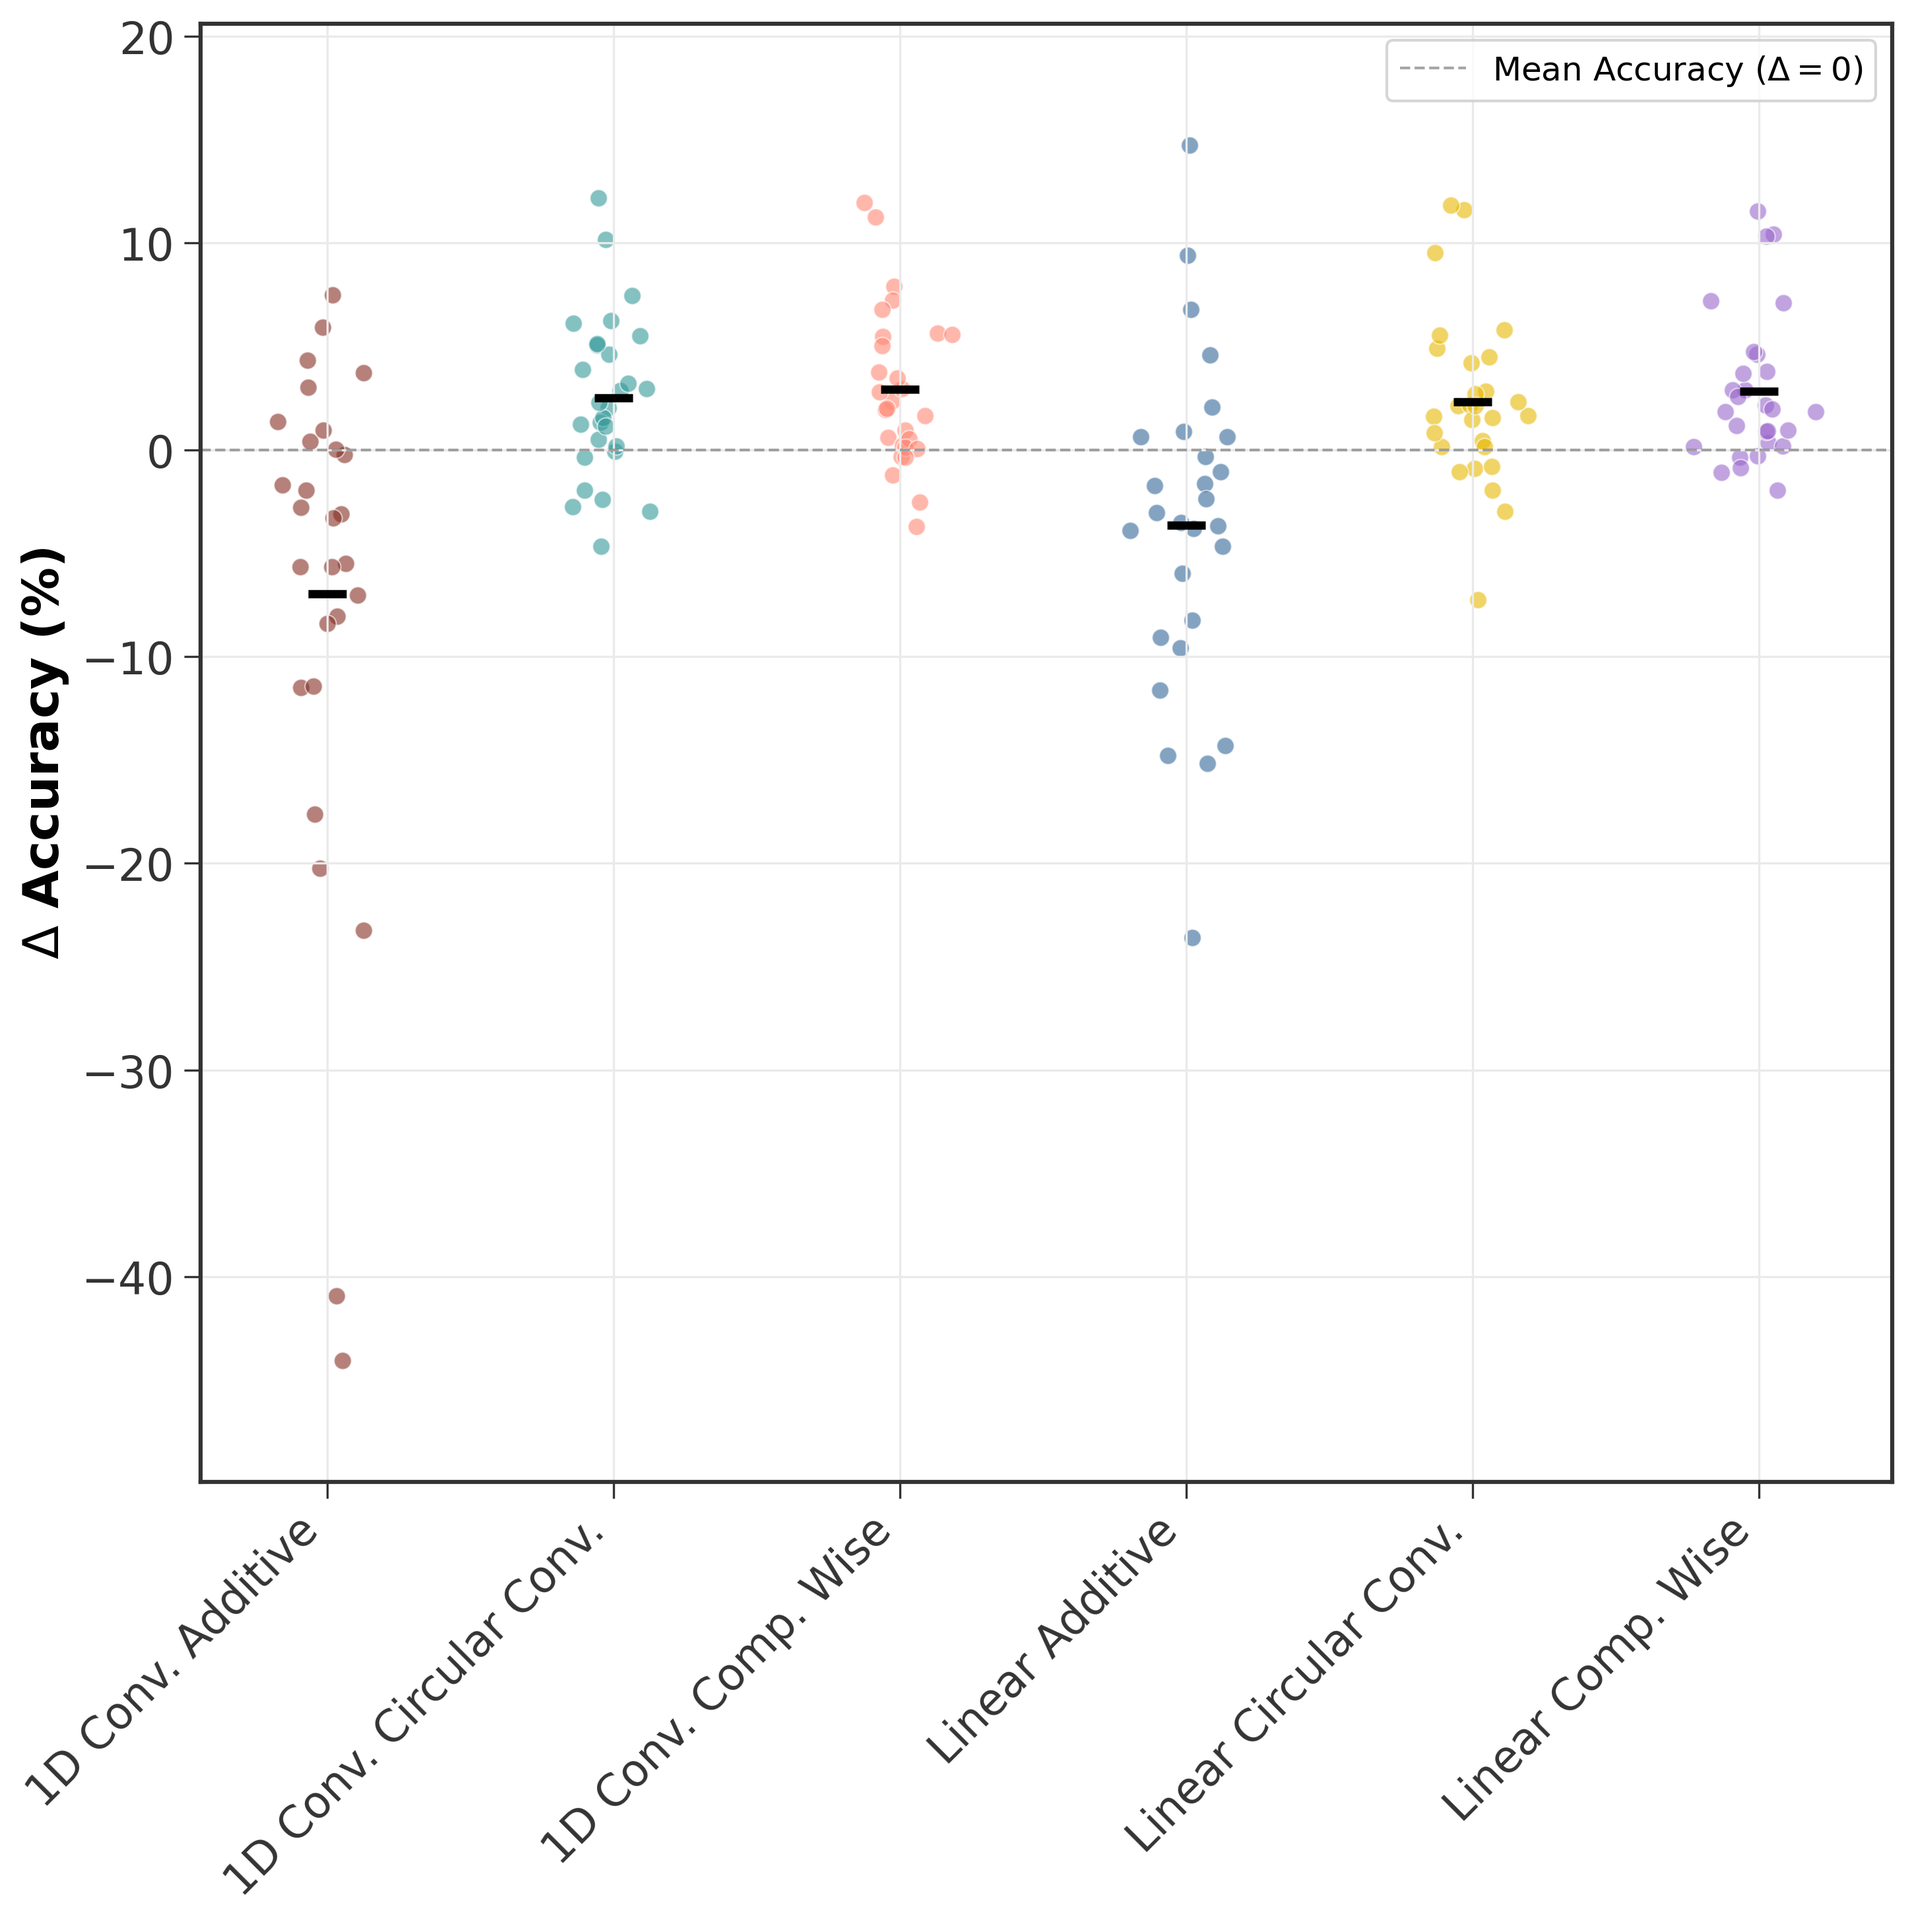
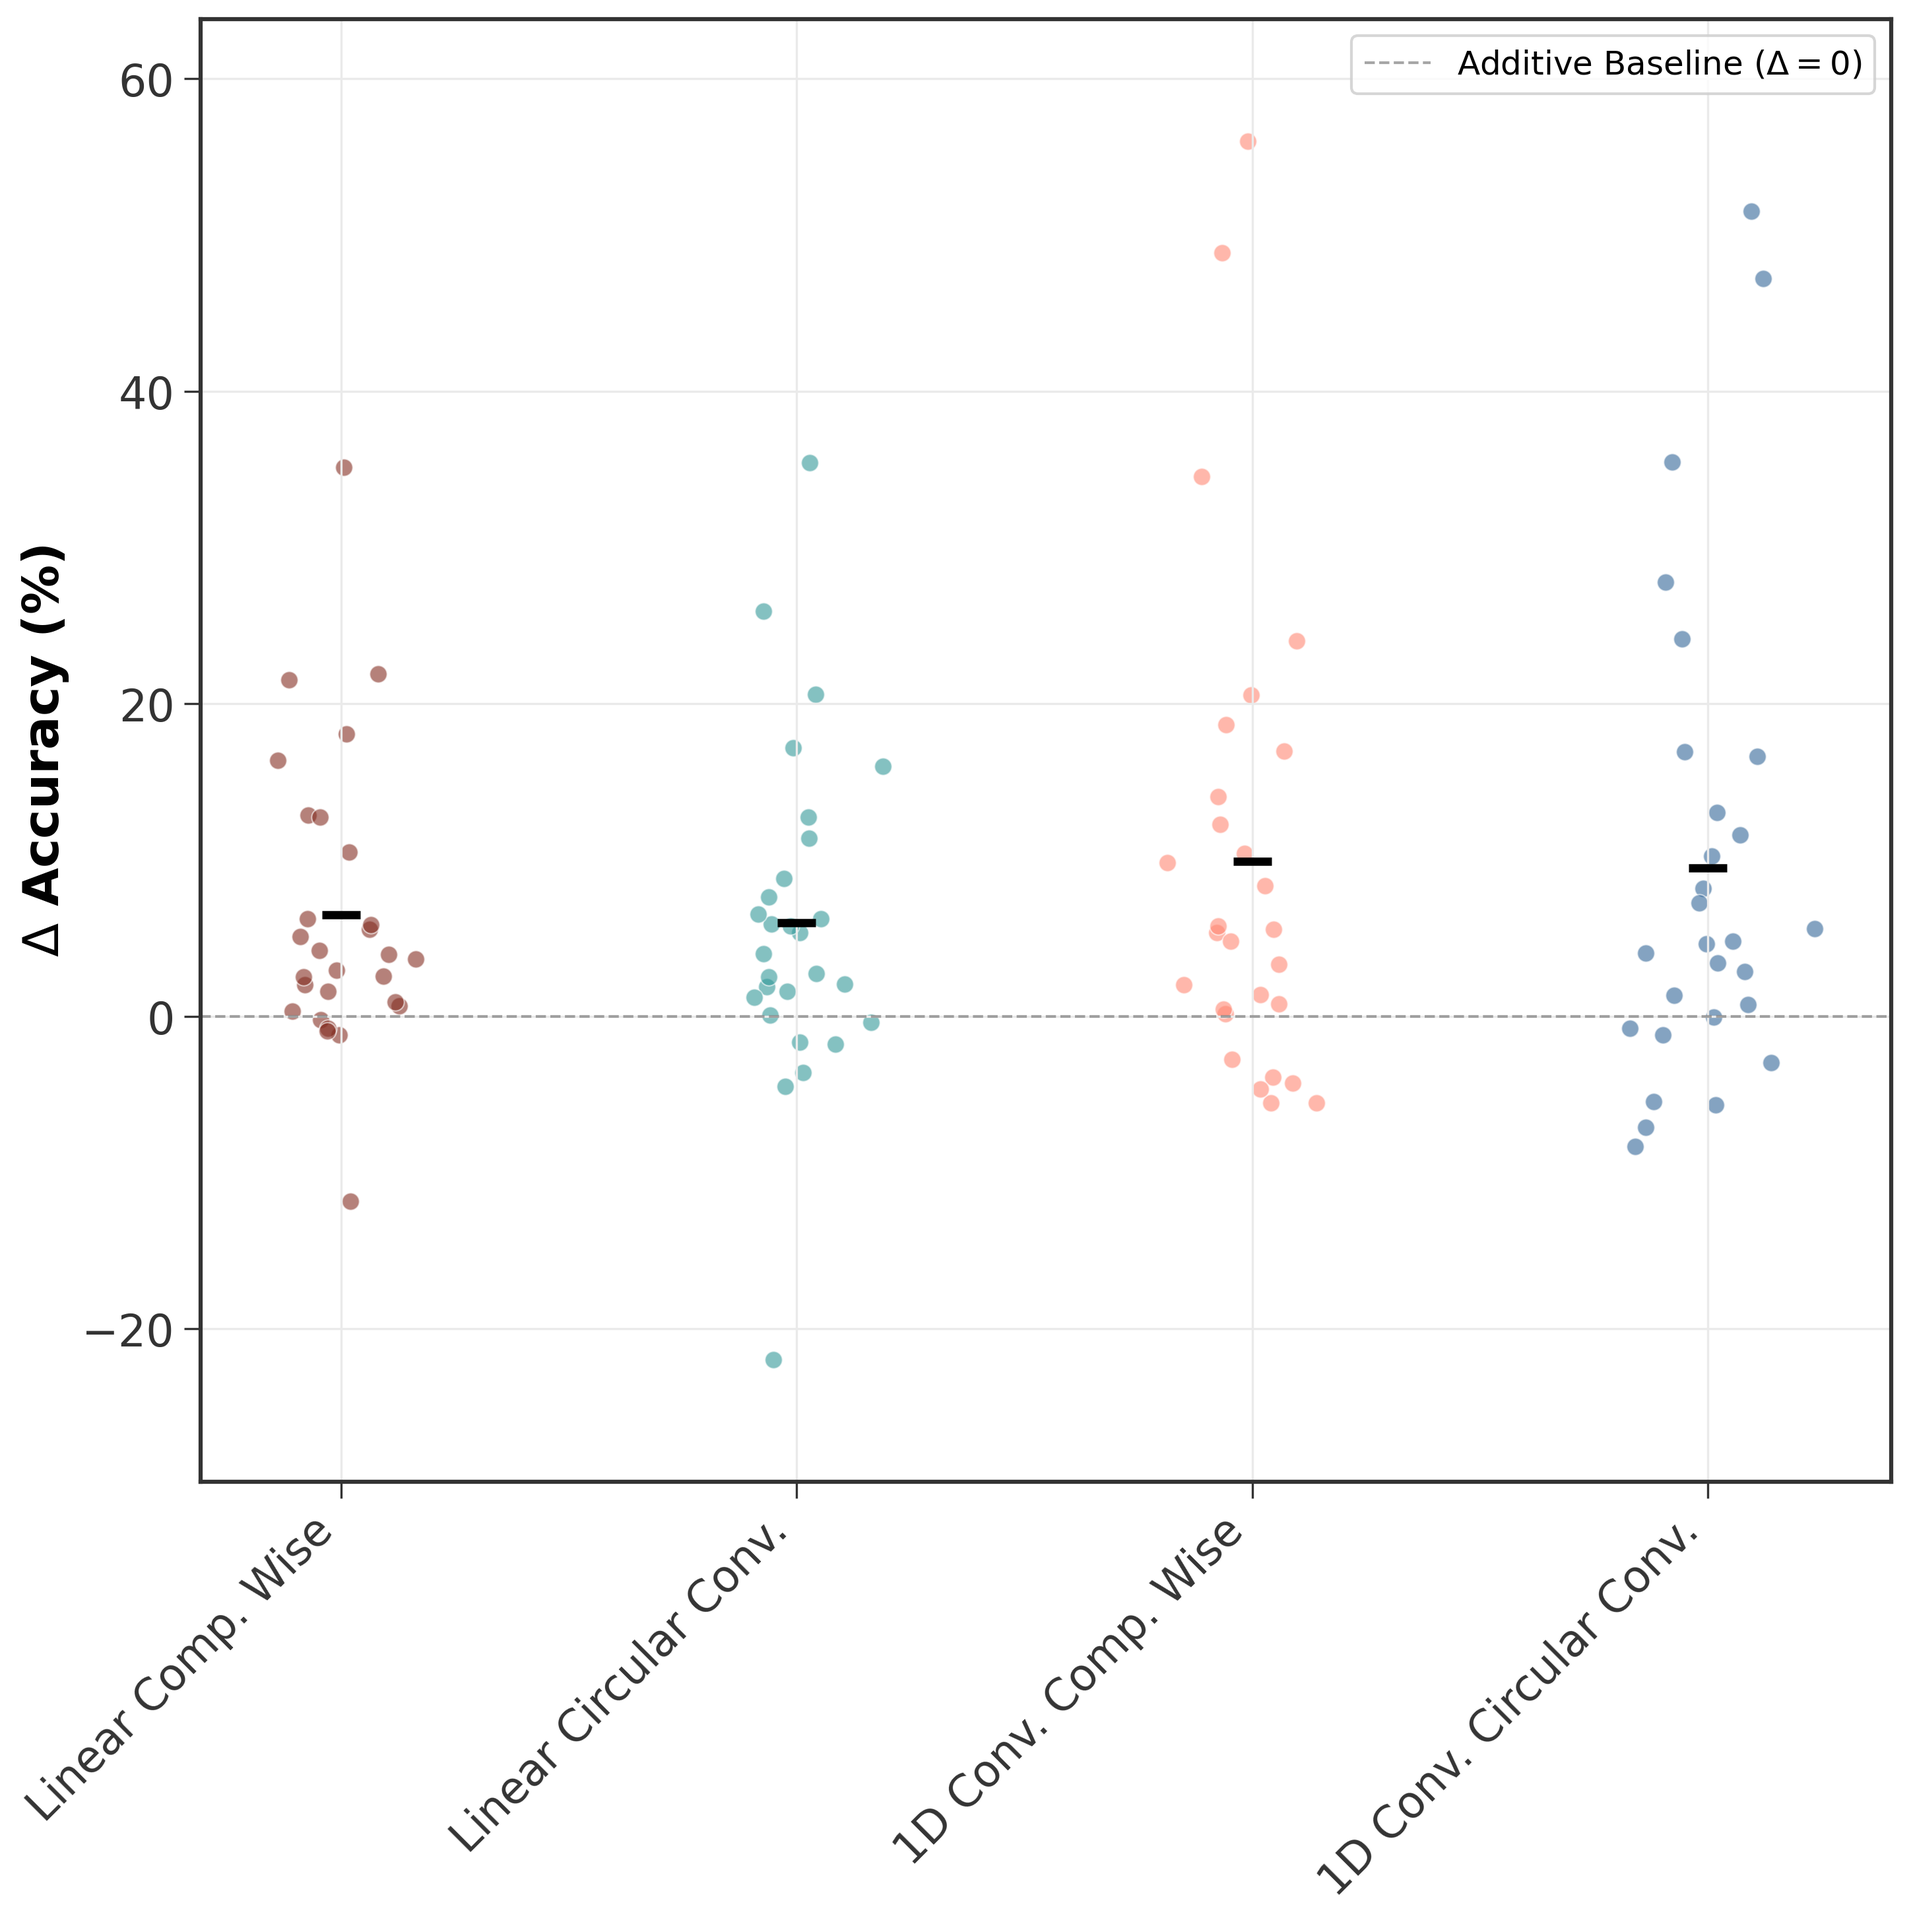
calculate relative acc based in their counterparts

diff --git a/src/experiments/visualization/paper.py b/src/experiments/visualization/paper.py
@@ -235,10 +235,14 @@ def plot_bar_dataset_acc(
 
 
 def plot_relative_accuracy_scatter(metrics: pandas.DataFrame, output_path: pathlib.Path) -> None:
-    """Plot a scatter plot of accuracy relative to the dataset mean.
+    """Plot a scatter plot of accuracy relative to specific Additive Baselines.
 
-    Each point represents a dataset. The Y-value is (Model Accuracy - Dataset Mean Accuracy).
-    Points are grouped by model on the X-axis.
+    Each point represents a dataset.
+    The Y-value is (Model Accuracy - Baseline Accuracy).
+
+    Baselines:
+    - Linear Additive for [Linear Comp. Wise, Linear Circular Conv.]
+    - 1D Conv. Additive for [1D Conv. Comp. Wise, 1D Conv. Circular Conv.]
 
     Args:
         metrics (pandas.DataFrame): DataFrame containing experiment metrics.
@@ -247,7 +251,7 @@ def plot_relative_accuracy_scatter(metrics: pandas.DataFrame, output_path: pathl
     # Apply style
     matplotlib.rcParams.update(rc_config)
 
-    # Create a copy to avoid modifying the original dataframe outside this function
+    # Create a copy to avoid modifying the original dataframe
     metrics_ = metrics.copy()
 
     # Convert strings to floats
@@ -256,18 +260,51 @@ def plot_relative_accuracy_scatter(metrics: pandas.DataFrame, output_path: pathl
     # Convert to percentage
     metrics_ = metrics_ * 100
 
-    # Calculate Relative Accuracy
-    # Calculate the mean accuracy for each dataset (row-wise)
-    dataset_means = metrics_.mean(axis=1)
+    # TODO: improve hardcoding of model names
+    # Initialize a dataframe for relative accuracies
+    relative_acc = pandas.DataFrame(index=metrics_.index)
 
-    # Subtract the dataset mean from the model accuracy
-    # Positive value = Model performed better than average on this dataset
-    # Negative value = Model performed worse than average
-    relative_acc = metrics_.sub(dataset_means, axis=0)
+    # Linear Group Calculation
+    # Baseline: Linear Additive
+    if "Linear Additive" in metrics_.columns:
+        baseline = metrics_["Linear Additive"]
+
+        # Calculate diffs (Target - Baseline)
+        # We include the baseline itself (result will be 0) to show it as the reference point on the plot
+        cols_linear = ["Linear Additive", "Linear Comp. Wise", "Linear Circular Conv."]
+        for col in cols_linear:
+            if col in metrics_.columns:
+                relative_acc[col] = metrics_[col] - baseline
+
+        relative_acc.drop(columns=["Linear Additive"], inplace=True)
+
+    # 1D Conv Group Calculation
+    # Baseline: 1D Conv. Additive
+    if "1D Conv. Additive" in metrics_.columns:
+        baseline = metrics_["1D Conv. Additive"]
+
+        cols_conv = ["1D Conv. Additive", "1D Conv. Comp. Wise", "1D Conv. Circular Conv."]
+        for col in cols_conv:
+            if col in metrics_.columns:
+                relative_acc[col] = metrics_[col] - baseline
+
+        relative_acc.drop(columns=["1D Conv. Additive"], inplace=True)
+
+    # Reorder columns for better visualization
+    # This groups the Linear models together and Conv models together on the X-axis
+    desired_order = [
+        # "Linear Additive",
+        "Linear Comp. Wise", "Linear Circular Conv.",
+        # "1D Conv. Additive",
+        "1D Conv. Comp. Wise", "1D Conv. Circular Conv."
+    ]
+    # Filter to ensure we only select columns that exist in the data
+    final_cols = [c for c in desired_order if c in relative_acc.columns]
+    relative_acc = relative_acc[final_cols]
 
     # Plotting
     num_models = len(relative_acc.columns)
-    fig, ax = pyplot.subplots(figsize=(max(10, num_models), 10))
+    fig, ax = pyplot.subplots(figsize=(max(10, num_models * 1.5), 10))
 
     # Create X coordinates
     x_positions = numpy.arange(num_models)
@@ -277,12 +314,12 @@ def plot_relative_accuracy_scatter(metrics: pandas.DataFrame, output_path: pathl
         values = relative_acc[model].values
 
         # Add "Jitter" to X to spread the points out horizontally
-        # np.random.normal creates a distribution around the center 'i'
         jitter = numpy.random.normal(0, 0.08, size=len(values))
 
+        # Assign colors
         color = modern_palette[i % len(modern_palette)]
 
-        # Plot the scatter points (The Cloud)
+        # Plot the scatter points
         ax.scatter(
             x_positions[i] + jitter,
             values,
@@ -294,16 +331,15 @@ def plot_relative_accuracy_scatter(metrics: pandas.DataFrame, output_path: pathl
             label=model if i == -1 else "",  # Don't add to legend, labels are on X-axis
         )
 
-        # Optional: Add a marker for the Mean of the model's relative performance
+        # Add a marker for the Mean of the model's relative performance
         mean_val = values.mean()
         ax.scatter(x_positions[i], mean_val, s=200, marker="_", color="black", linewidth=3, zorder=10)
 
     # Styling
-    # Add a reference line at 0 (The Dataset Average)
-    ax.axhline(0, color="gray", linestyle="--", linewidth=1, alpha=0.7, label=r"Mean Accuracy ($\Delta=0$)")
+    # Reference line at 0 now represents the Additive Baseline
+    ax.axhline(0, color="gray", linestyle="--", linewidth=1, alpha=0.7, label=r"Additive Baseline ($\Delta=0$)")
 
     ax.set_ylabel(r"$\Delta$ Accuracy (%)")
-    # ax.set_title("Relative Performance of Models across Datasets")
 
     ax.set_xticks(x_positions)
     ax.set_xticklabels(relative_acc.columns, rotation=45, ha="right")
@@ -311,10 +347,10 @@ def plot_relative_accuracy_scatter(metrics: pandas.DataFrame, output_path: pathl
     # Add a small legend just for the reference line
     ax.legend(loc="upper right", frameon=True)
 
-    # Adjust Y limits to make sure clouds aren't cut off
+    # Adjust Y limits
     y_max = relative_acc.max().max()
     y_min = relative_acc.min().min()
-    padding = (y_max - y_min) * 0.1
+    padding = (y_max - y_min) * 0.1 if (y_max - y_min) > 0 else 1.0
     ax.set_ylim(y_min - padding, y_max + padding)
 
     pyplot.tight_layout()
@@ -324,6 +360,11 @@ def plot_relative_accuracy_scatter(metrics: pandas.DataFrame, output_path: pathl
 
     pyplot.show()
 
+    # Print Summary Statistics
+    mean_increase = "+" + relative_acc.mean().rename("Mean Acc. Increase").round(2).astype(str)
+    max_increase = "+" + relative_acc.max().rename("Max Acc. Increase").round(2).astype(str)
+    summary_df = pandas.concat([mean_increase, max_increase], axis=1)
+    print(f"Summary of Mean and Max Accuracy Increases per Model:\n{summary_df}")
 
 def plot_cd_diagram_of_experiment(
     experiment_name: str, plot_name: str, exp_dataset_metrics: pathlib.Path, exp_model_metrics: pathlib.Path
